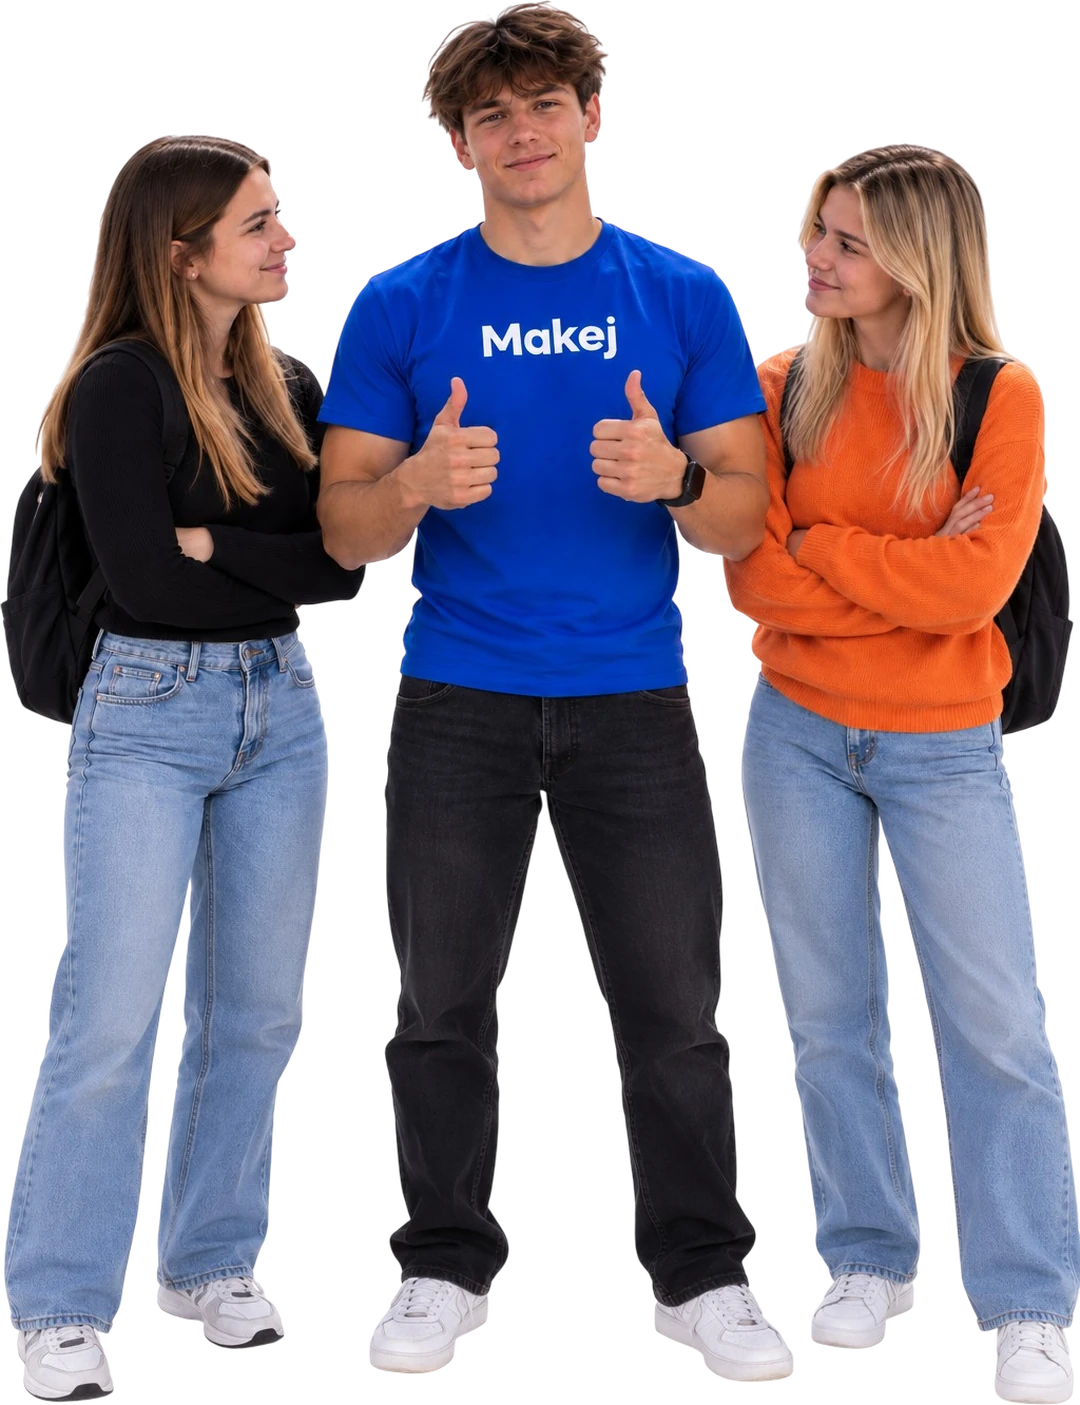
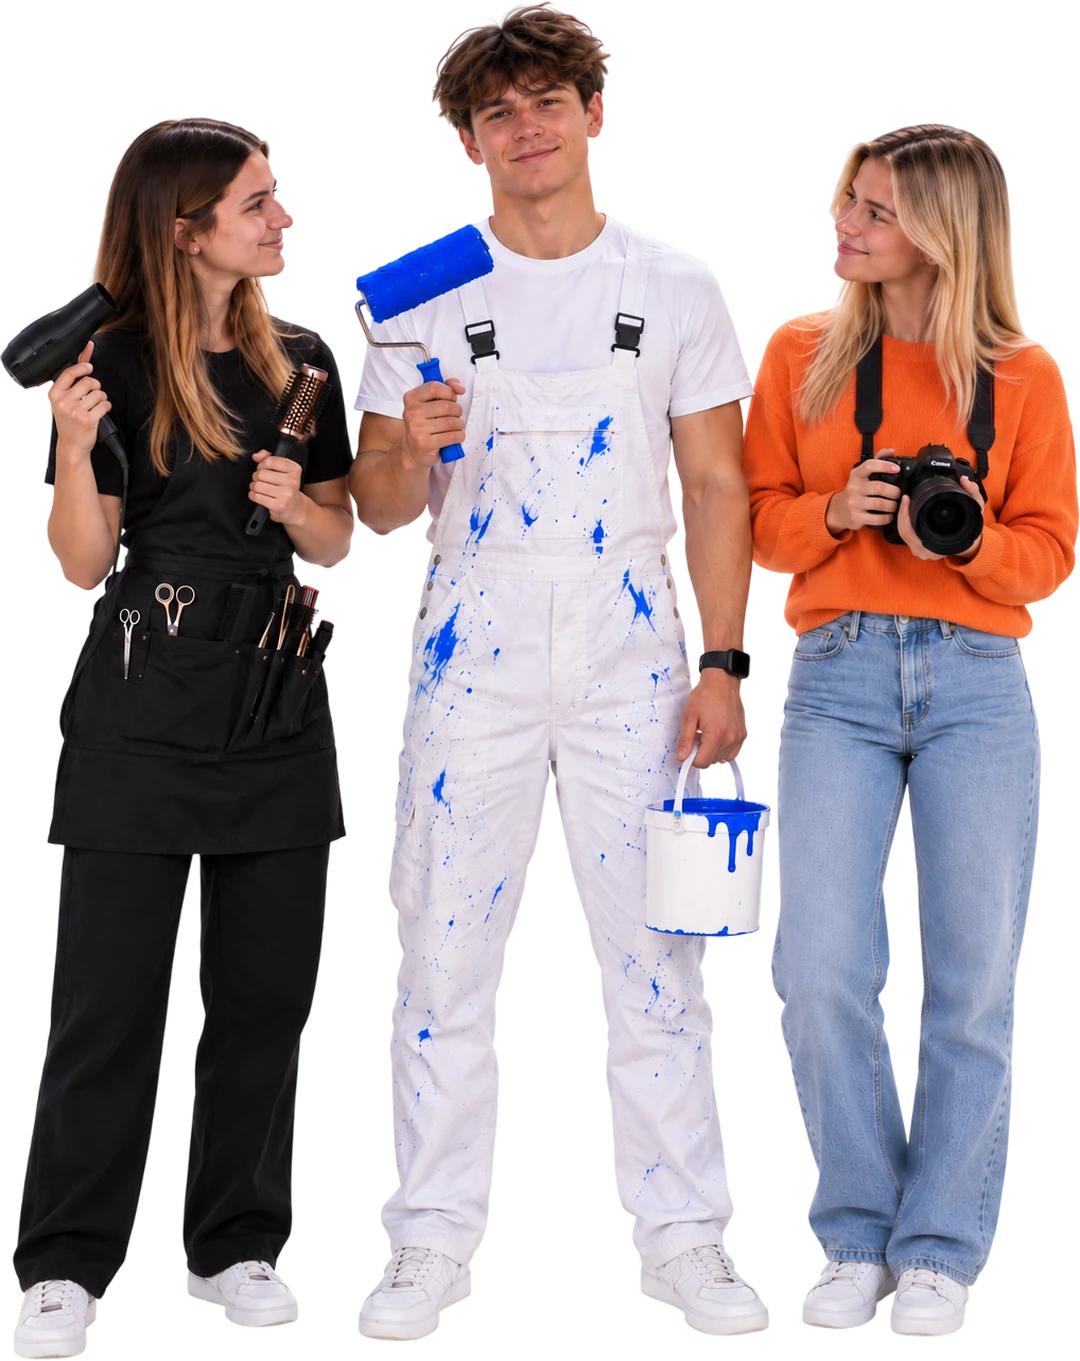
Lidé: sekce Dvě cesty jako velké karty s iPhony
Sekce „Dvě cesty" na /lide je přestavěná do podoby hero karet: vlevo
„Umíš? → Nabídni se", vpravo „Potřebuješ? → Najdi", každá s telefonem
a tlačítkem, pod nimi číslované kroky.

- v telefonech jsou skutečné snímky z appky (karta člověka a tržiště
  Lidí), ne kresby — včetně spodní navigace, jak to vypadá naostro
- rám telefonu je iPhone: Dynamic Island, stavový řádek s časem
  a ikonami, domovský proužek; rozměry v procentech displeje
- nový nadpis sekce „Nekonečná možnost výdělku." na střed
- pořadí sekcí: karty jsou hned pod hero, úvodní text šel pod ně
  (bílý list se zaoblením přes hero proto drží sekce s kartami)
- z minula: skutečné fotky u kroků na /hledam-si-praci a nový hero
  na /lide

diff --git a/lide.html b/lide.html
@@ -441,13 +441,91 @@
 
     /* ── DETAIL: marketplace vysvětlení ── */
     .vx-intro { background: #fff; padding-bottom: 40px; }
+    /* Zaoblený bílý list přes hero patří první sekci pod ním. Na /lide to už
+       není úvodní text, ale karty — proto se to tady přepisuje. */
+    .uvod > .vx-two { border-radius: 32px 32px 0 0; box-shadow: 0 -22px 60px -22px rgba(10,13,46,.22); }
+    .uvod > .vx-intro { border-radius: 0; box-shadow: none; }
+    @media (max-width: 700px) { .uvod > .vx-two { border-radius: 22px 22px 0 0; } }
     .vx-intro .vx-sec-head { max-width: 780px; margin-bottom: 0; }
     .vx-intro .vx-sec-head p { font-size: 1.16rem; }
     /* Dvě strany — bez karet: dva sloupce dělené linkou, kroky se šipkou */
-    .vx-two { background: #fff; padding-top: 40px; }
-    .vx-two-head { max-width: 640px; margin: 0 0 64px; }
+    .vx-two { background: #fff; }
+    .vx-two .vx-wrap { width: min(1280px, 94vw); }
+    /* ── Dvě cesty jako velké karty (stejný princip jako hero na hlavní) ── */
+    .lc-grid { display:grid; grid-template-columns:1fr 1fr; gap:22px; }
+    .lc-card {
+      position:relative; overflow:hidden; border-radius:28px;
+      padding:40px 38px; display:flex; gap:26px; align-items:center;
+      color:#fff; isolation:isolate;
+    }
+    /* Dokud nejsou fotky, drží karty barvu značky. Až fotka přijde, stačí
+       doplnit background-image a překryv zůstane čitelný. */
+    .lc-card--offer { background:
+      linear-gradient(120deg, rgba(0,20,163,.86) 0%, rgba(0,32,246,.72) 62%, rgba(0,32,246,.55) 100%),
+      radial-gradient(120% 120% at 88% 4%, #2b3bff, #0014a3 76%); }
+    .lc-card--seek { background:
+      linear-gradient(120deg, rgba(10,13,46,.9) 0%, rgba(18,22,60,.78) 60%, rgba(30,36,84,.6) 100%),
+      radial-gradient(120% 120% at 88% 4%, #2a3160, #0a0d2e 78%); }
+    .lc-text { flex:1 1 auto; min-width:0; max-width:320px; }
+    .lc-badge {
+      display:inline-block; padding:7px 15px; border-radius:999px; margin-bottom:18px;
+      background:rgba(255,255,255,.18); backdrop-filter:blur(6px); -webkit-backdrop-filter:blur(6px);
+      font-size:.82rem; font-weight:700; letter-spacing:.01em;
+    }
+    .lc-text h3 { font-family:var(--font-heading); font-weight:800; font-size:clamp(2rem,3.4vw,2.9rem); line-height:1.02; letter-spacing:-.03em; margin-bottom:14px; }
+    .lc-text p { font-size:1.02rem; line-height:1.55; color:rgba(255,255,255,.82); text-wrap:pretty; margin-bottom:26px; }
+    .lc-btn {
+      display:inline-flex; align-items:center; gap:10px; padding:15px 26px; border-radius:999px;
+      background:#fff; color:var(--ink); font-weight:700; font-size:1rem; border:0;
+      transition:transform .18s ease, box-shadow .18s ease;
+    }
+    .lc-card--offer .lc-btn { background:#fff; color:#0014a3; }
+    .lc-btn:hover { transform:translateY(-2px); box-shadow:0 14px 30px rgba(0,0,0,.22); }
+    .lc-btn span { transition:transform .18s ease; }
+    .lc-btn:hover span { transform:translateX(3px); }
+    /* Telefon vpravo — iPhone s Dynamic Islandem, zespoda přetéká z karty ven.
+       Rozměry uvnitř jsou v procentech obrazovky, ať to sedí v jakékoli velikosti. */
+    .lc-phone {
+      flex:0 0 clamp(212px, 21vw, 288px); width:clamp(212px, 21vw, 288px); align-self:center;
+      border-radius:38px; padding:7px; background:linear-gradient(160deg,#4a4f63,#14162b 42%,#2c3040 70%,#4a4f63);
+      box-shadow:0 26px 60px rgba(0,0,0,.42), 0 0 0 1px rgba(255,255,255,.14) inset;
+    }
+    .lc-screen { position:relative; border-radius:32px; overflow:hidden; }
+    /* height:auto je nutné — atributy width/height na <img> jsou pro prohlížeč
+       rovnou CSS rozměry, takže bez tohohle by obrázek zůstal 1212 px vysoký. */
+    .lc-screen img { display:block; width:100%; height:auto; }
+    /* Dynamic Island — poměry podle iPhonu 15 (125 × 37 pt na šířce 393 pt) */
+    .lc-island { position:absolute; top:1.35%; left:50%; transform:translateX(-50%); width:31.8%; height:4.35%; border-radius:999px; background:#000; z-index:3; }
+    /* Stavový řádek: čas vlevo, signál / wifi / baterie vpravo */
+    .lc-stav { position:absolute; top:1.5%; left:0; right:0; z-index:2; display:flex; align-items:center; justify-content:space-between; padding:0 7.5%; height:4.2%; color:#0b1233; }
+    .lc-stav--svetly { color:#fff; }
+    .lc-domu { position:absolute; bottom:.85%; left:50%; transform:translateX(-50%); width:35%; height:.5%; min-height:3px; border-radius:999px; background:rgba(11,18,51,.42); z-index:3; }
+    .lc-stav b { font-family:var(--font-heading); font-weight:700; font-size:.5rem; letter-spacing:.01em; line-height:1; }
+    .lc-stav svg { display:block; height:.46rem; width:auto; }
+    /* Kroky pod kartami — čísla jako v appce */
+    .lc-kroky { display:grid; grid-template-columns:1fr 1fr; gap:22px; margin-top:26px; }
+    .lc-sloupec { display:grid; grid-template-columns:repeat(3,1fr); gap:18px; }
+    .lc-sloupec--4 { grid-template-columns:repeat(4,1fr); }
+    .lc-krok { border-top:1px solid var(--line); padding-top:14px; }
+    .lc-krok b { display:block; font-family:var(--font-heading); font-size:.78rem; font-weight:800; color:var(--blue); letter-spacing:.06em; margin-bottom:8px; }
+    .lc-krok h4 { font-family:var(--font-heading); font-weight:800; font-size:.98rem; letter-spacing:-.01em; margin-bottom:5px; }
+    .lc-krok p { color:var(--muted); font-size:.86rem; line-height:1.45; text-wrap:pretty; }
+    @media (max-width: 980px) {
+      .lc-grid, .lc-kroky { grid-template-columns:1fr; }
+      .lc-card { min-height:0; padding:30px 24px 0; }
+      .lc-phone { flex-basis:clamp(180px, 34vw, 230px); width:clamp(180px, 34vw, 230px); border-radius:32px; }
+      .lc-screen { border-radius:26px; }
+    }
+    @media (max-width: 620px) {
+      .lc-card { flex-direction:column; align-items:stretch; }
+      .lc-text { max-width:none; padding-bottom:22px; }
+      .lc-phone { align-self:center; flex-basis:min(230px, 62vw); width:min(230px, 62vw); }
+      .lc-sloupec, .lc-sloupec--4 { grid-template-columns:1fr 1fr; }
+    }
+    .vx-two-head { max-width: 780px; margin: 0 auto 64px; text-align: center; }
     .vx-two-head h2 { font-family: var(--font-heading); font-weight: 800; font-size: clamp(2rem, 4.4vw, 3.25rem); letter-spacing: -.03em; line-height: 1.05; text-wrap: balance; }
     .vx-two-head h2 em { font-style: normal; color: var(--blue); }
+    .vx-two-head p { color: var(--muted); font-size: 1.12rem; line-height: 1.6; margin: 18px auto 0; max-width: 620px; text-wrap: pretty; }
     .vx-two-grid { display:grid; grid-template-columns: 1fr 1fr; gap: 0; }
     .vx-aud { display:flex; flex-direction:column; gap:44px; padding-right:48px; }
     .vx-aud.seek { padding-right:0; padding-left:48px; border-left:1px solid var(--line); }
@@ -645,7 +723,7 @@
 
           <!-- 3D portrét lidí — hlavní centerpiece -->
           <div class="vx-heroimg-wrap">
-            <img class="vx-heroimg" src="/lide-hero-foto.webp?v=3" alt="Tři brigádníci, jeden v tričku Makej" width="1080" height="1405" />
+            <img class="vx-heroimg" src="/lide-hero-foto.webp?v=4" alt="Kadeřnice, malíř a fotografka — lidé nabízející své dovednosti" width="1080" height="1361" />
           </div>
 
 
@@ -656,6 +734,64 @@
 
     <!-- ═══════════ JAK TO FUNGUJE ═══════════ -->
     <!-- INTRO — marketplace -->
+    <!-- DVĚ STRANY — nabízíš / sháníš -->
+    <section class="vx-sec vx-two">
+      <div class="vx-wrap">
+        <div class="vx-two-head js-reveal-up">
+          <h2>Nekonečná možnost <em>výdělku.</em></h2>
+          <p>Místo, kde lidé nabídnou, co umí, a zájemci můžou využít jejich služeb.</p>
+        </div>
+        <div class="lc-grid">
+          <article class="lc-card lc-card--offer js-reveal-up">
+            <div class="lc-text">
+              <span class="lc-badge">Umíš?</span>
+              <h3>Nabídni se</h3>
+              <p>Vypíšeš, co umíš, řekneš si cenu a lidé z tvého okolí si tě najdou sami.</p>
+              <a href="javascript:void(0)" class="lc-btn worker-cta-register">Vytvořit kartu <span aria-hidden="true">→</span></a>
+            </div>
+            <div class="lc-phone">
+              <div class="lc-screen">
+                <img src="lide-mock-karta.webp?v=2" width="560" height="1212" loading="lazy" decoding="async" alt="Karta člověka v aplikaci Makej — co nabízí, cena a hodnocení" />
+                <div class="lc-stav lc-stav--svetly"><b>9:41</b><svg viewBox="0 0 66 14" fill="currentColor" aria-hidden="true"><rect x="0" y="9" width="3" height="5" rx="1"/><rect x="5" y="6.5" width="3" height="7.5" rx="1"/><rect x="10" y="4" width="3" height="10" rx="1"/><rect x="15" y="1.5" width="3" height="12.5" rx="1"/><path d="M26.4 4.6a9.6 9.6 0 0 1 12.2 0l-1.6 1.9a7.2 7.2 0 0 0-9 0zm2.6 3.1a5.6 5.6 0 0 1 7 0l-1.6 1.9a3.2 3.2 0 0 0-3.8 0zm2.4 2.9a2 2 0 0 1 2.2 0l-1.1 1.4z"/><rect x="47" y="2" width="15.5" height="10" rx="3" fill="none" stroke="currentColor" stroke-width="1.2" opacity=".5"/><rect x="48.6" y="3.6" width="10.5" height="6.8" rx="1.8"/><path d="M64 5.6v2.8a2 2 0 0 0 0-2.8z" opacity=".5"/></svg></div>
+                <div class="lc-island" aria-hidden="true"></div>
+                <div class="lc-domu" aria-hidden="true"></div>
+              </div>
+            </div>
+          </article>
+          <article class="lc-card lc-card--seek js-reveal-up">
+            <div class="lc-text">
+              <span class="lc-badge">Potřebuješ?</span>
+              <h3>Najdi</h3>
+              <p>Projdi lidi ve svém okolí, mrkni na jejich práci a napiš tomu, kdo ti sedne.</p>
+              <a href="javascript:void(0)" class="lc-btn worker-cta-register">Projít lidi <span aria-hidden="true">→</span></a>
+            </div>
+            <div class="lc-phone">
+              <div class="lc-screen">
+                <img src="lide-mock-trziste.webp?v=3" width="560" height="1212" loading="lazy" decoding="async" alt="Tržiště lidí v aplikaci Makej — dlaždice s nabídkami v okolí" />
+                <div class="lc-stav"><b>9:41</b><svg viewBox="0 0 66 14" fill="currentColor" aria-hidden="true"><rect x="0" y="9" width="3" height="5" rx="1"/><rect x="5" y="6.5" width="3" height="7.5" rx="1"/><rect x="10" y="4" width="3" height="10" rx="1"/><rect x="15" y="1.5" width="3" height="12.5" rx="1"/><path d="M26.4 4.6a9.6 9.6 0 0 1 12.2 0l-1.6 1.9a7.2 7.2 0 0 0-9 0zm2.6 3.1a5.6 5.6 0 0 1 7 0l-1.6 1.9a3.2 3.2 0 0 0-3.8 0zm2.4 2.9a2 2 0 0 1 2.2 0l-1.1 1.4z"/><rect x="47" y="2" width="15.5" height="10" rx="3" fill="none" stroke="currentColor" stroke-width="1.2" opacity=".5"/><rect x="48.6" y="3.6" width="10.5" height="6.8" rx="1.8"/><path d="M64 5.6v2.8a2 2 0 0 0 0-2.8z" opacity=".5"/></svg></div>
+                <div class="lc-island" aria-hidden="true"></div>
+                <div class="lc-domu" aria-hidden="true"></div>
+              </div>
+            </div>
+          </article>
+        </div>
+
+        <div class="lc-kroky">
+          <div class="lc-sloupec">
+            <div class="lc-krok js-reveal-up"><b>01</b><h4>Vytvoř si kartu</h4><p>Vypíšeš, co umíš — třeba „Opravuji nábytek“ nebo „Peču dorty na zakázku“.</p></div>
+            <div class="lc-krok js-reveal-up"><b>02</b><h4>Čekej na poptávky</h4><p>Karta se začne zobrazovat lidem ve tvém okolí.</p></div>
+            <div class="lc-krok js-reveal-up"><b>03</b><h4>Měj to pod kontrolou</h4><p>Přijde ti zpráva se zadáním a ty se rozhodneš, jestli do toho jdeš.</p></div>
+          </div>
+          <div class="lc-sloupec lc-sloupec--4">
+            <div class="lc-krok js-reveal-up"><b>01</b><h4>Projdi lidi</h4><p>Karty šikovných lidí v okolí, stejně jednoduše jako nabídky práce.</p></div>
+            <div class="lc-krok js-reveal-up"><b>02</b><h4>Najdi toho pravého</h4><p>Potřebuješ opravit stůl? Narazíš na kartu s opravami nábytku.</p></div>
+            <div class="lc-krok js-reveal-up"><b>03</b><h4>Napiš poptávku</h4><p>Krátká zpráva s tím, co konkrétně potřebuješ vyřešit.</p></div>
+            <div class="lc-krok js-reveal-up"><b>04</b><h4>Domluvte se v chatu</h4><p>Po potvrzení se otevře společný chat a doladíte detaily.</p></div>
+          </div>
+        </div>
+      </div>
+    </section>
+
     <section id="jak" class="vx-sec vx-intro">
       <div class="vx-wrap">
         <div class="vx-sec-head js-reveal-up">
@@ -690,30 +826,6 @@
       </div>
     </section>
     </div><!-- /.uvod -->
-
-    <!-- DVĚ STRANY — nabízíš / sháníš -->
-    <section class="vx-sec vx-two">
-      <div class="vx-wrap">
-        <div class="vx-two-head js-reveal-up">
-          <h2>Dvě cesty, <em>jedna appka.</em></h2>
-        </div>
-        <div class="vx-two-grid">
-          <div class="vx-aud offer">
-            <div class="vx-aud-head js-reveal-up"><h3>Nabízíš své služby</h3></div>
-            <div class="vx-aud-step js-reveal-up"><div class="vx-aud-arrow" aria-hidden="true">→</div><div><h4>Vytvoř si kartu dovedností</h4><p>Vypíšeš, co umíš — např. „Opravuji nábytek“, „Stříhám videa“, „Peču dorty na zakázku“.</p></div></div>
-            <div class="vx-aud-step js-reveal-up"><div class="vx-aud-arrow" aria-hidden="true">→</div><div><h4>Čekej na poptávky</h4><p>Tvoje karta se začne zobrazovat ostatním uživatelům ve tvém okolí.</p></div></div>
-            <div class="vx-aud-step js-reveal-up"><div class="vx-aud-arrow" aria-hidden="true">→</div><div><h4>Měj vše pod kontrolou</h4><p>Když tě někdo osloví, přijde ti krátká zpráva se zadáním. Ty se rozhodneš, jestli zakázku přijmeš, nebo odmítneš.</p></div></div>
-          </div>
-          <div class="vx-aud seek">
-            <div class="vx-aud-head js-reveal-up"><h3>Sháníš někoho šikovného</h3></div>
-            <div class="vx-aud-step js-reveal-up"><div class="vx-aud-arrow" aria-hidden="true">→</div><div><h4>Projížděj marketplace lidí</h4><p>Procházej profily šikovných lidí ve tvém okolí stejně jednoduše jako pracovní nabídky.</p></div></div>
-            <div class="vx-aud-step js-reveal-up"><div class="vx-aud-arrow" aria-hidden="true">→</div><div><h4>Najdi přesně toho pravého</h4><p>Hledáš někoho na opravu stolu? Narazíš na kartu s opravou nábytku a swajpneš doprava.</p></div></div>
-            <div class="vx-aud-step js-reveal-up"><div class="vx-aud-arrow" aria-hidden="true">→</div><div><h4>Napiš poptávku</h4><p>Rovnou napíšeš krátkou zprávu, co konkrétně potřebuješ vyřešit.</p></div></div>
-            <div class="vx-aud-step js-reveal-up"><div class="vx-aud-arrow" aria-hidden="true">→</div><div><h4>Domluvte se v chatu</h4><p>Jakmile druhá strana žádost potvrdí, otevře se vám společný chat, kde doladíte detaily a pustíte se do toho.</p></div></div>
-          </div>
-        </div>
-      </div>
-    </section>
 
     <!-- ZÁVĚR -->
     <section class="vx-sec vx-close">

diff --git a/hledam-si-praci.html b/hledam-si-praci.html
@@ -40,7 +40,7 @@
   <!-- lokálně a synchronně: přes CDN s async se komponenta upgradovala pozdě a ikony posouvaly layout -->
   <script src="/iconify-icon.min.js?v=3.0.0"></script>
   <link rel="preload" as="image" href="/krok-1.jpg?v=1" />
-  <link rel="preload" as="image" href="/krok-2.jpg?v=1" />
+  <link rel="preload" as="image" href="/krok-2.jpg?v=2" />
   <link rel="preload" href="/fonts/LeagueSpartan-Variable.woff2" as="font" type="font/woff2" crossorigin />
   <link rel="stylesheet" href="style.css?v=133" />
   <style>
@@ -98,21 +98,27 @@
       border-radius: 26px; overflow: hidden;
       box-shadow: 0 30px 60px -34px rgba(10,13,46,.5);
     }
-    /* Pozadí karty není plná barva, ale přesně ten vodorovný přechod, jaký má
-       fotka na svém horním okraji (odečteno z pixelů). Kdyby tu byla jedna
-       barva, na napojení by se rýsoval světlý předěl — studiové pozadí totiž
-       není přes celou šířku stejné. Fotky mění → přegenerovat i tyhle. */
-    #how-it-works .bolt-row:nth-child(1) {
-      background: linear-gradient(to right, #a1cbfb 0%, #a1cbfb 12%, #a0ccfc 25%, #a1caf8 38%, #a2cbf9 50%, #9ecafb 62%, #a5cffc 75%, #a8d1fc 88%, #a7cffc 100%);
-    }
-    #how-it-works .bolt-row:nth-child(2) {
-      background: linear-gradient(to right, #eff6fe 0%, #ecf4fe 12%, #e8f1fe 25%, #e6f0fd 38%, #e8f0fe 50%, #eef6fe 62%, #eef6fe 75%, #f2f8fd 88%, #f7f9fe 100%);
-    }
+    /* Pozadí karet: světle modrý přechod odečtený z fotky prvního kroku.
+       Ta je focená ve studiu, takže do karty plynule přejde bez švu.
+       Druhá a třetí fotka jsou z reálného prostředí (budova, učebna) a mají
+       tmavý horní okraj — kdyby se z nich barva karty odvozovala taky, byly by
+       karty kalně šedé a text na nich nečitelný. Proto mají všechny tři stejné
+       světlé pozadí a fotky 2 a 3 se do něj shora rozplynou (maska níž). */
+    #how-it-works .bolt-row:nth-child(1),
+    #how-it-works .bolt-row:nth-child(2),
     #how-it-works .bolt-row:nth-child(3) {
-      background: linear-gradient(to right, #e4eaf8 0%, #e5ebf7 12%, #e6ecf8 25%, #e7eef9 38%, #eaf1fb 50%, #eff3fb 62%, #f5f7fd 75%, #f9fafe 88%, #fcfcfd 100%);
+      background: linear-gradient(to right, #a1cbfb 0%, #a1cbfb 12%, #a0ccfc 25%, #a1caf8 38%, #a2cbf9 50%, #9ecafb 62%, #a5cffc 75%, #a8d1fc 88%, #a7cffc 100%);
     }
     #how-it-works .bolt-row:nth-child(2) { transition-delay: .1s; }
     #how-it-works .bolt-row:nth-child(3) { transition-delay: .2s; }
+    /* Jen u fotek z reálného prostředí. U první se nedá — chlapci sahají vlasy
+       až do horní hrany snímku a maska by je odbarvila. */
+    #how-it-works .bolt-row:nth-child(2) .bolt-media img,
+    #how-it-works .bolt-row:nth-child(3) .bolt-media img {
+      -webkit-mask-image: linear-gradient(to bottom, transparent 0, #000 20%);
+              mask-image: linear-gradient(to bottom, transparent 0, #000 20%);
+    }
+
     #how-it-works .bolt-text {
       padding: clamp(22px, 2.4vw, 32px) clamp(22px, 2.4vw, 30px) clamp(18px, 2vw, 26px);
     }
@@ -120,11 +126,15 @@
       font-family: var(--font-heading); font-weight: 800; text-transform: uppercase;
       font-size: clamp(1.05rem, 1.5vw, 1.35rem); letter-spacing: -.02em; line-height: 1.06;
       color: #0a0d2e; margin: 0;
+      /* „Matchni se s firmou" a „Pracuj a vydělávej" se na šířku karty nevejdou
+         na jeden řádek — rezerva na dva srovná začátky popisů do jedné linky. */
+      min-height: 2.12em;
     }
     #how-it-works .bolt-text p {
       font-size: clamp(.88rem, 1vw, .95rem); line-height: 1.5;
       color: rgba(10,13,46,.62); margin: 9px 0 0; max-width: none; text-wrap: pretty;
     }
+
     /* V markupu je fotka před textem (a sudé řady si ji navíc přehazovaly).
        Tady chceme vždycky text nahoře a fotku dole, ať karty čtou stejně. */
     #how-it-works .bolt-text { order: 1; }
@@ -574,7 +584,7 @@
 
           <div class="bolt-row js-reveal-up">
             <div class="bolt-media">
-              <img src="/krok-2.jpg?v=1" alt="Podání rukou — brigádník a firma se domluvili" />
+              <img src="/krok-2.jpg?v=2" alt="Podání rukou — brigádník a firma se domluvili" />
             </div>
             <div class="bolt-text">
               <h3>Matchni se s firmou</h3>
@@ -584,7 +594,7 @@
 
           <div class="bolt-row js-reveal-up">
             <div class="bolt-media">
-              <img src="/krok-3.jpg?v=1" alt="Výplata v korunách putuje z telefonu do ruky" />
+              <img src="/krok-3.jpg?v=2" alt="Výplata v korunách putuje z telefonu do ruky" />
             </div>
             <div class="bolt-text">
               <h3>Pracuj a vydělávej</h3>
